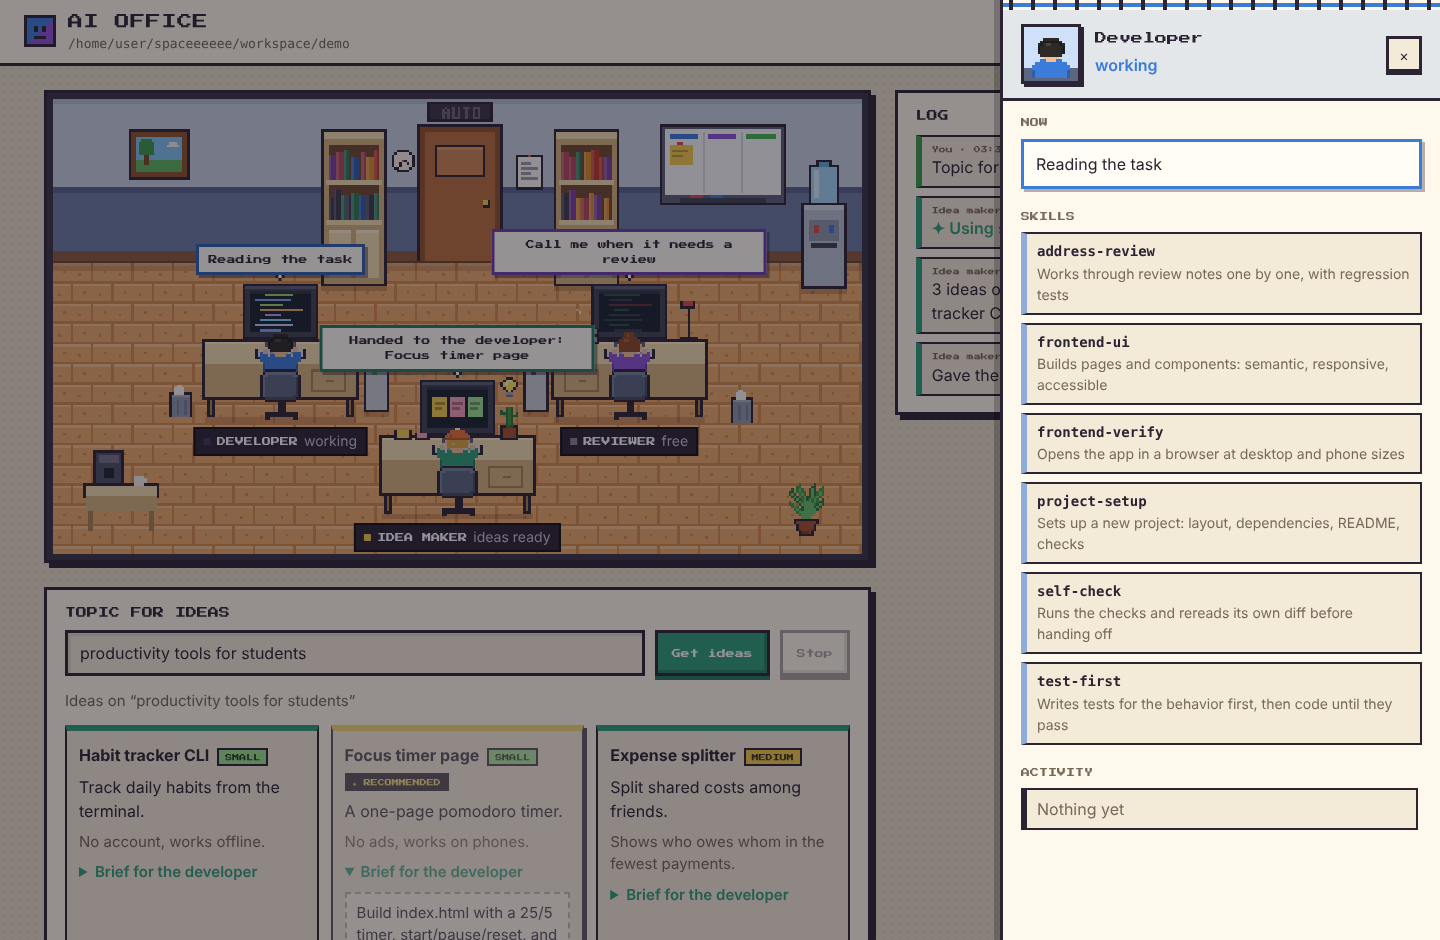
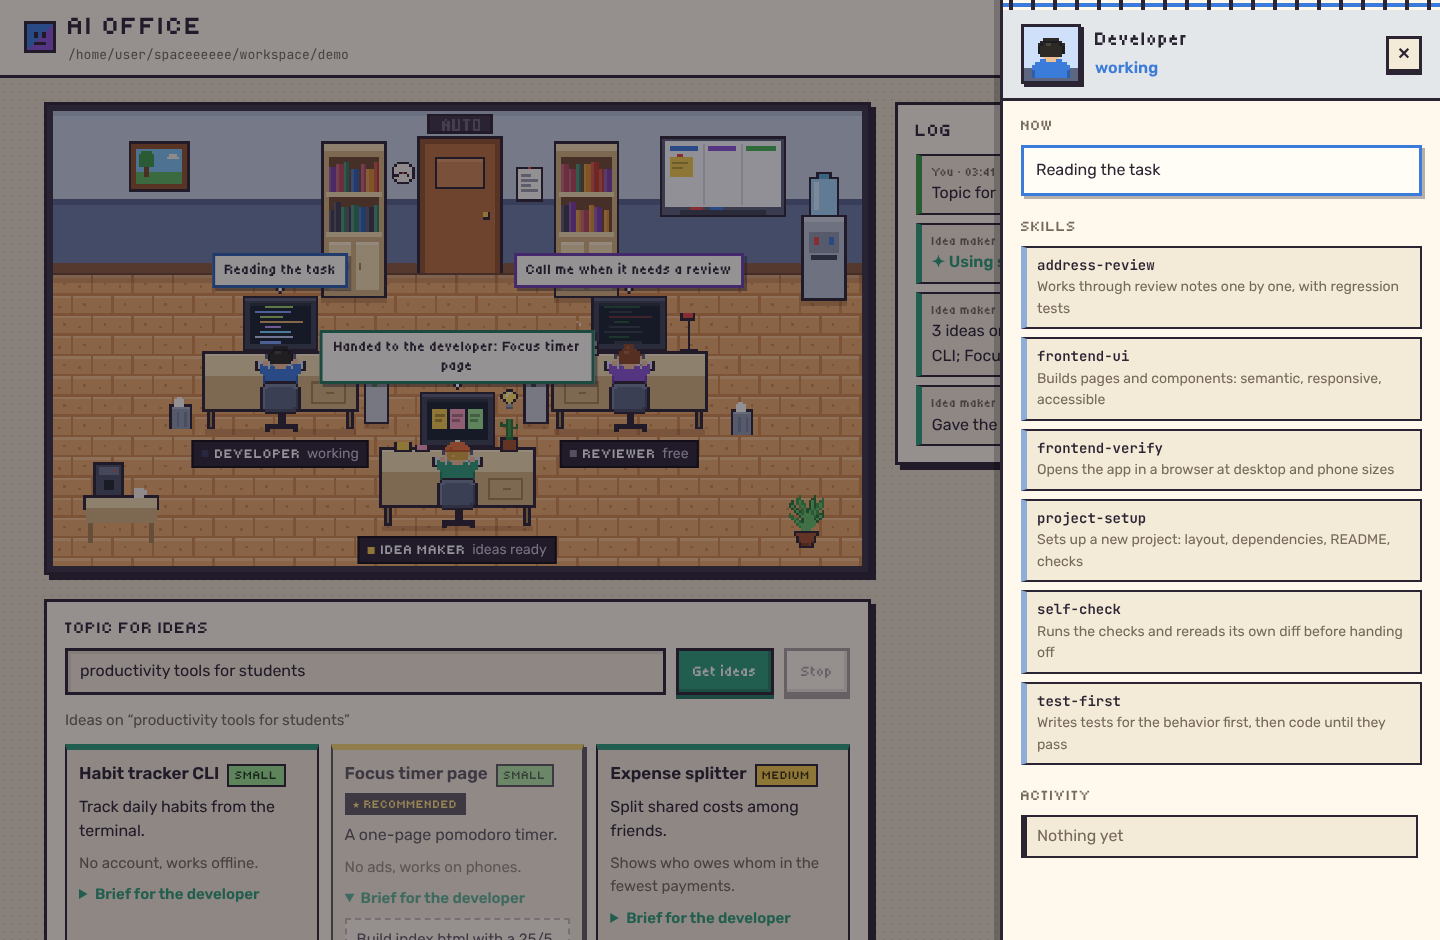
Switch the office to a readable type system
Press Start 2P was too wide and heavy, unreadable at the small sizes the
buttons, name plates and badges need, and clashed with the system font
used for longer text. Now:

- Tiny5 for the logo, headings, buttons, name plates, badges and speech
  bubbles: still pixel, but compact and clear in Latin and Cyrillic.
- Rubik for everything longer than a few words: the log, verdicts, idea
  cards and briefs, hints.
- JetBrains Mono for code: paths, commands, skill names, file:line.

Sizes were re-tuned for the new fonts. On phones only agents at work show
a speech bubble; the monitors show approval, rejection and ready ideas.

Changed region(s): [[0.0, 0.0, 1.0, 1.0], [0.75, 0.0309, 0.8438, 0.0926]]

diff --git a/office/static/style.css b/office/static/style.css
@@ -19,8 +19,10 @@
   --warn: #e08a1e;
   --warn-dark: #b06a12;
   --focus: #f2cd4b;
-  --pixel-font: "Press Start 2P", ui-monospace, monospace;
-  --text-font: system-ui, -apple-system, "Segoe UI", Roboto, sans-serif;
+  /* Tiny5 keeps the pixel look for short labels; Rubik carries anything longer than a few words. */
+  --pixel-font: "Tiny5", ui-monospace, monospace;
+  --text-font: "Rubik", system-ui, -apple-system, "Segoe UI", sans-serif;
+  --mono-font: "JetBrains Mono", ui-monospace, SFMono-Regular, Menlo, monospace;
   color-scheme: light;
 }
 
@@ -58,11 +60,11 @@ body {
   background-color: var(--bg);
   background-image: radial-gradient(var(--bg-dots) 1px, transparent 1px);
   background-size: 8px 8px;
-  font: 16px/1.5 var(--text-font);
+  font: 16px/1.55 var(--text-font);
 }
 
-h1, h2 { margin: 0; font-family: var(--pixel-font); font-weight: 400; line-height: 1.3; }
-h2 { font-size: 11px; }
+h1, h2 { margin: 0; font-family: var(--pixel-font); font-weight: 400; line-height: 1.15; letter-spacing: 0.05em; }
+h2 { font-size: 18px; }
 
 /* ---------- pixel frame: hard border plus an offset shadow, no rounding ---------- */
 
@@ -90,7 +92,7 @@ h2 { font-size: 11px; }
 }
 
 .brand { display: flex; align-items: center; gap: 12px; min-width: 0; }
-.brand h1 { font-size: 15px; letter-spacing: 0.04em; }
+.brand h1 { font-size: 26px; letter-spacing: 0.08em; }
 
 .logo {
   flex: none;
@@ -108,7 +110,7 @@ h2 { font-size: 11px; }
 .workspace {
   margin: 4px 0 0;
   color: var(--muted);
-  font: 13px ui-monospace, SFMono-Regular, Menlo, monospace;
+  font: 13px var(--mono-font);
   overflow: hidden;
   text-overflow: ellipsis;
   white-space: nowrap;
@@ -180,7 +182,8 @@ h2 { font-size: 11px; }
   width: max-content;
   max-width: 34%;
   padding: 5px 9px;
-  font: clamp(7px, 0.72vw, 9px)/1.7 var(--pixel-font);
+  font: clamp(12px, 1.1vw, 15px)/1.25 var(--pixel-font);
+  letter-spacing: 0.02em;
   color: #2b2433;
   background: #fffdf6;
   border: 3px solid #2b2433;
@@ -224,7 +227,7 @@ h2 { font-size: 11px; }
 }
 .nameplate:hover { background: #3a3046; }
 .nameplate:focus-visible { outline: 3px solid var(--focus); outline-offset: 2px; }
-.nameplate strong { font: 400 clamp(7px, 0.75vw, 9px)/1 var(--pixel-font); }
+.nameplate strong { font: 400 clamp(11px, 0.95vw, 14px)/1 var(--pixel-font); letter-spacing: 0.06em; }
 .nameplate .status-text { color: #c9bfd6; }
 .nameplate .dot { width: 7px; height: 7px; background: #8a8496; }
 
@@ -237,7 +240,7 @@ h2 { font-size: 11px; }
 
 /* ---------- task panel ---------- */
 
-.task > label, .ideas > label { display: block; margin-bottom: 10px; font: 11px/1.3 var(--pixel-font); }
+.task > label, .ideas > label { display: block; margin-bottom: 10px; font: 17px/1.2 var(--pixel-font); letter-spacing: 0.05em; }
 
 textarea {
   width: 100%;
@@ -258,7 +261,8 @@ textarea:focus-visible, .btn:focus-visible { outline: 3px solid var(--focus); ou
   --face: var(--panel-2);
   --edge: var(--ink);
   padding: 10px 14px 9px;
-  font: 9px/1.3 var(--pixel-font);
+  font: 15px/1.2 var(--pixel-font);
+  letter-spacing: 0.03em;
   color: var(--text);
   background: var(--face);
   border: 3px solid var(--ink);
@@ -282,14 +286,14 @@ textarea:focus-visible, .btn:focus-visible { outline: 3px solid var(--focus); ou
 /* ---------- verdict ---------- */
 
 .verdict-head { display: flex; align-items: center; gap: 12px; }
-.verdict h2 { font-size: 11px; }
+.verdict h2 { font-size: 18px; }
 .stamp {
   display: grid;
   place-items: center;
   flex: none;
   width: 40px;
   height: 40px;
-  font: 16px/1 var(--pixel-font);
+  font: 700 20px/1 var(--text-font);
   color: #fff;
   border: 3px solid var(--ink);
 }
@@ -303,7 +307,7 @@ textarea:focus-visible, .btn:focus-visible { outline: 3px solid var(--focus); ou
 .checks { display: flex; flex-wrap: wrap; gap: 6px; margin: 0 0 12px; padding: 0; list-style: none; }
 .checks li {
   padding: 2px 8px;
-  font: 12px ui-monospace, monospace;
+  font: 12px var(--mono-font);
   background: var(--panel-2);
   border: 2px solid var(--ink);
 }
@@ -314,14 +318,15 @@ textarea:focus-visible, .btn:focus-visible { outline: 3px solid var(--focus); ou
 .issues li { padding: 10px 12px; background: var(--panel-2); border: 2px solid var(--ink); }
 .issue-head { display: flex; flex-wrap: wrap; align-items: baseline; gap: 8px; }
 .issue-head strong { font-weight: 600; }
-.issue-where { font: 12px ui-monospace, monospace; color: var(--muted); overflow-wrap: anywhere; }
+.issue-where { font: 12px var(--mono-font); color: var(--muted); overflow-wrap: anywhere; }
 .issues p { margin: 6px 0 0; }
 .issues .why { white-space: pre-wrap; overflow-wrap: anywhere; }
 .issues .fix { color: var(--muted); }
 
 .sev {
   padding: 3px 6px 2px;
-  font: 8px/1.3 var(--pixel-font);
+  font: 12px/1.3 var(--pixel-font);
+  letter-spacing: 0.06em;
   text-transform: uppercase;
   color: #fff;
   border: 2px solid var(--ink);
@@ -359,9 +364,9 @@ textarea:focus-visible, .btn:focus-visible { outline: 3px solid var(--focus); ou
 .feed li[data-kind="skill"] .text { font-weight: 600; color: var(--reviewer); }
 .feed li[data-agent="worker"][data-kind="skill"] .text { color: var(--worker); }
 .feed li[data-kind="error"] { border-left-color: var(--bad); }
-.feed .who { display: block; font: 7px/1.6 var(--pixel-font); color: var(--muted); }
+.feed .who { display: block; font: 13px/1.4 var(--pixel-font); letter-spacing: 0.04em; color: var(--muted); }
 .feed .text { display: block; white-space: pre-wrap; overflow-wrap: anywhere; }
-.feed li[data-kind="tool"] .text { font: 13px ui-monospace, monospace; color: var(--muted); }
+.feed li[data-kind="tool"] .text { font: 13px/1.45 var(--mono-font); color: var(--muted); }
 .empty { margin: 0; color: var(--muted); }
 
 /* ---------- toast ---------- */
@@ -427,12 +432,13 @@ textarea:focus-visible, .btn:focus-visible { outline: 3px solid var(--focus); ou
 .idea[data-recommended="true"] { border-top-color: #f2cd4b; box-shadow: 3px 3px 0 var(--shadow); }
 .idea[data-handed="true"] { opacity: 0.75; }
 .idea-head { display: flex; flex-wrap: wrap; align-items: baseline; gap: 6px 8px; }
-.idea-head strong { font-weight: 700; font-size: 16px; }
+.idea-head strong { font-weight: 600; font-size: 17px; line-height: 1.3; }
 .idea p { margin: 0; }
 .idea .why { color: var(--muted); font-size: 15px; }
 .scope, .star {
   padding: 2px 6px 1px;
-  font: 7px/1.6 var(--pixel-font);
+  font: 12px/1.3 var(--pixel-font);
+  letter-spacing: 0.06em;
   text-transform: uppercase;
   border: 2px solid var(--ink);
 }
@@ -458,7 +464,8 @@ textarea:focus-visible, .btn:focus-visible { outline: 3px solid var(--focus); ou
 .lang-switch { display: inline-flex; border: 2px solid var(--ink); }
 .lang-switch button {
   padding: 5px 7px 4px;
-  font: 8px/1 var(--pixel-font);
+  font: 13px/1 var(--pixel-font);
+  letter-spacing: 0.05em;
   color: var(--text);
   background: var(--panel-2);
   border: 0;
@@ -506,7 +513,7 @@ textarea:focus-visible, .btn:focus-visible { outline: 3px solid var(--focus); ou
 .switch input:checked + .track { background: var(--bad); }
 .switch input:checked + .track::after { transform: translateX(20px); }
 .switch input:focus-visible + .track { outline: 3px solid var(--focus); outline-offset: 2px; }
-.switch-label { font: 9px/1.3 var(--pixel-font); }
+.switch-label { font: 16px/1.2 var(--pixel-font); letter-spacing: 0.05em; }
 
 .rounds { display: inline-flex; align-items: center; gap: 8px; font-size: 14px; color: var(--muted); }
 .rounds select {
@@ -586,7 +593,7 @@ body.drawer-open { overflow: hidden; }
   box-shadow: 3px 3px 0 var(--shadow);
 }
 .drawer-who { flex: 1; min-width: 0; }
-.drawer-who h2 { font-size: 12px; }
+.drawer-who h2 { font-size: 20px; }
 .drawer-status { margin: 6px 0 0; color: var(--muted); }
 .drawer[data-status="working"] .drawer-status,
 .drawer[data-status="reviewing"] .drawer-status { color: var(--accent); font-weight: 600; }
@@ -594,7 +601,7 @@ body.drawer-open { overflow: hidden; }
   flex: none;
   width: 36px;
   height: 36px;
-  font: 14px/1 var(--pixel-font);
+  font: 700 16px/1 var(--text-font);
   color: var(--text);
   background: var(--panel-2);
   border: 3px solid var(--ink);
@@ -606,7 +613,7 @@ body.drawer-open { overflow: hidden; }
 
 .drawer-body { flex: 1; overflow-y: auto; padding: 16px 18px 24px; }
 .drawer-body section + section { margin-top: 22px; }
-.drawer-body h3 { margin: 0 0 10px; font: 9px/1.3 var(--pixel-font); color: var(--muted); }
+.drawer-body h3 { margin: 0 0 10px; font: 15px/1.2 var(--pixel-font); letter-spacing: 0.06em; color: var(--muted); }
 .drawer-bubble {
   margin: 0;
   padding: 10px 12px;
@@ -627,12 +634,13 @@ body.drawer-open { overflow: hidden; }
   border: 2px solid var(--ink);
   border-left: 6px solid color-mix(in srgb, var(--accent) 55%, var(--panel-2));
 }
-.skill strong { font: 600 14px/1.3 ui-monospace, SFMono-Regular, Menlo, monospace; }
+.skill strong { font: 600 14px/1.3 var(--mono-font); }
 .skill span { color: var(--muted); font-size: 14px; }
 .skill em {
   margin-left: 6px;
   padding: 1px 5px;
-  font: 7px/1.6 var(--pixel-font);
+  font: 11px/1.5 var(--pixel-font);
+  letter-spacing: 0.05em;
   font-style: normal;
   color: #fff;
   background: var(--accent);
@@ -653,11 +661,11 @@ body.drawer-open { overflow: hidden; }
 
 @media (max-width: 560px) {
   .room { padding: 3px; }
-  .bubble { max-width: 40%; padding: 3px 5px; font: 600 11px/1.25 var(--text-font); border-width: 2px; }
+  .bubble { max-width: 40%; padding: 3px 5px; font: 12px/1.2 var(--pixel-font); border-width: 2px; }
   .nameplate { padding: 2px 5px; gap: 4px; }
   .nameplate .status-text { display: none; }
-  /* three bubbles do not fit a phone-sized room: only agents at work speak */
-  .agent[data-status="idle"] .bubble { display: none; }
+  /* three bubbles do not fit a phone-sized room: only agents at work speak; the monitors show the rest */
+  .agent:not([data-status="working"], [data-status="reviewing"], [data-status="thinking"]) .bubble { display: none; }
   .meta .cost { display: none; }
   .meta { gap: 8px; }
   .meta .conn { font-size: 0; }

diff --git a/office/static/index.html b/office/static/index.html
@@ -6,7 +6,7 @@
   <title>AI Office</title>
   <link rel="preconnect" href="https://fonts.googleapis.com">
   <link rel="preconnect" href="https://fonts.gstatic.com" crossorigin>
-  <link rel="stylesheet" href="https://fonts.googleapis.com/css2?family=Press+Start+2P&display=swap">
+  <link rel="stylesheet" href="https://fonts.googleapis.com/css2?family=Tiny5&family=Rubik:wght@400;500;600;700&family=JetBrains+Mono:wght@400;600&display=swap">
   <link rel="stylesheet" href="/static/style.css">
 </head>
 <body>
